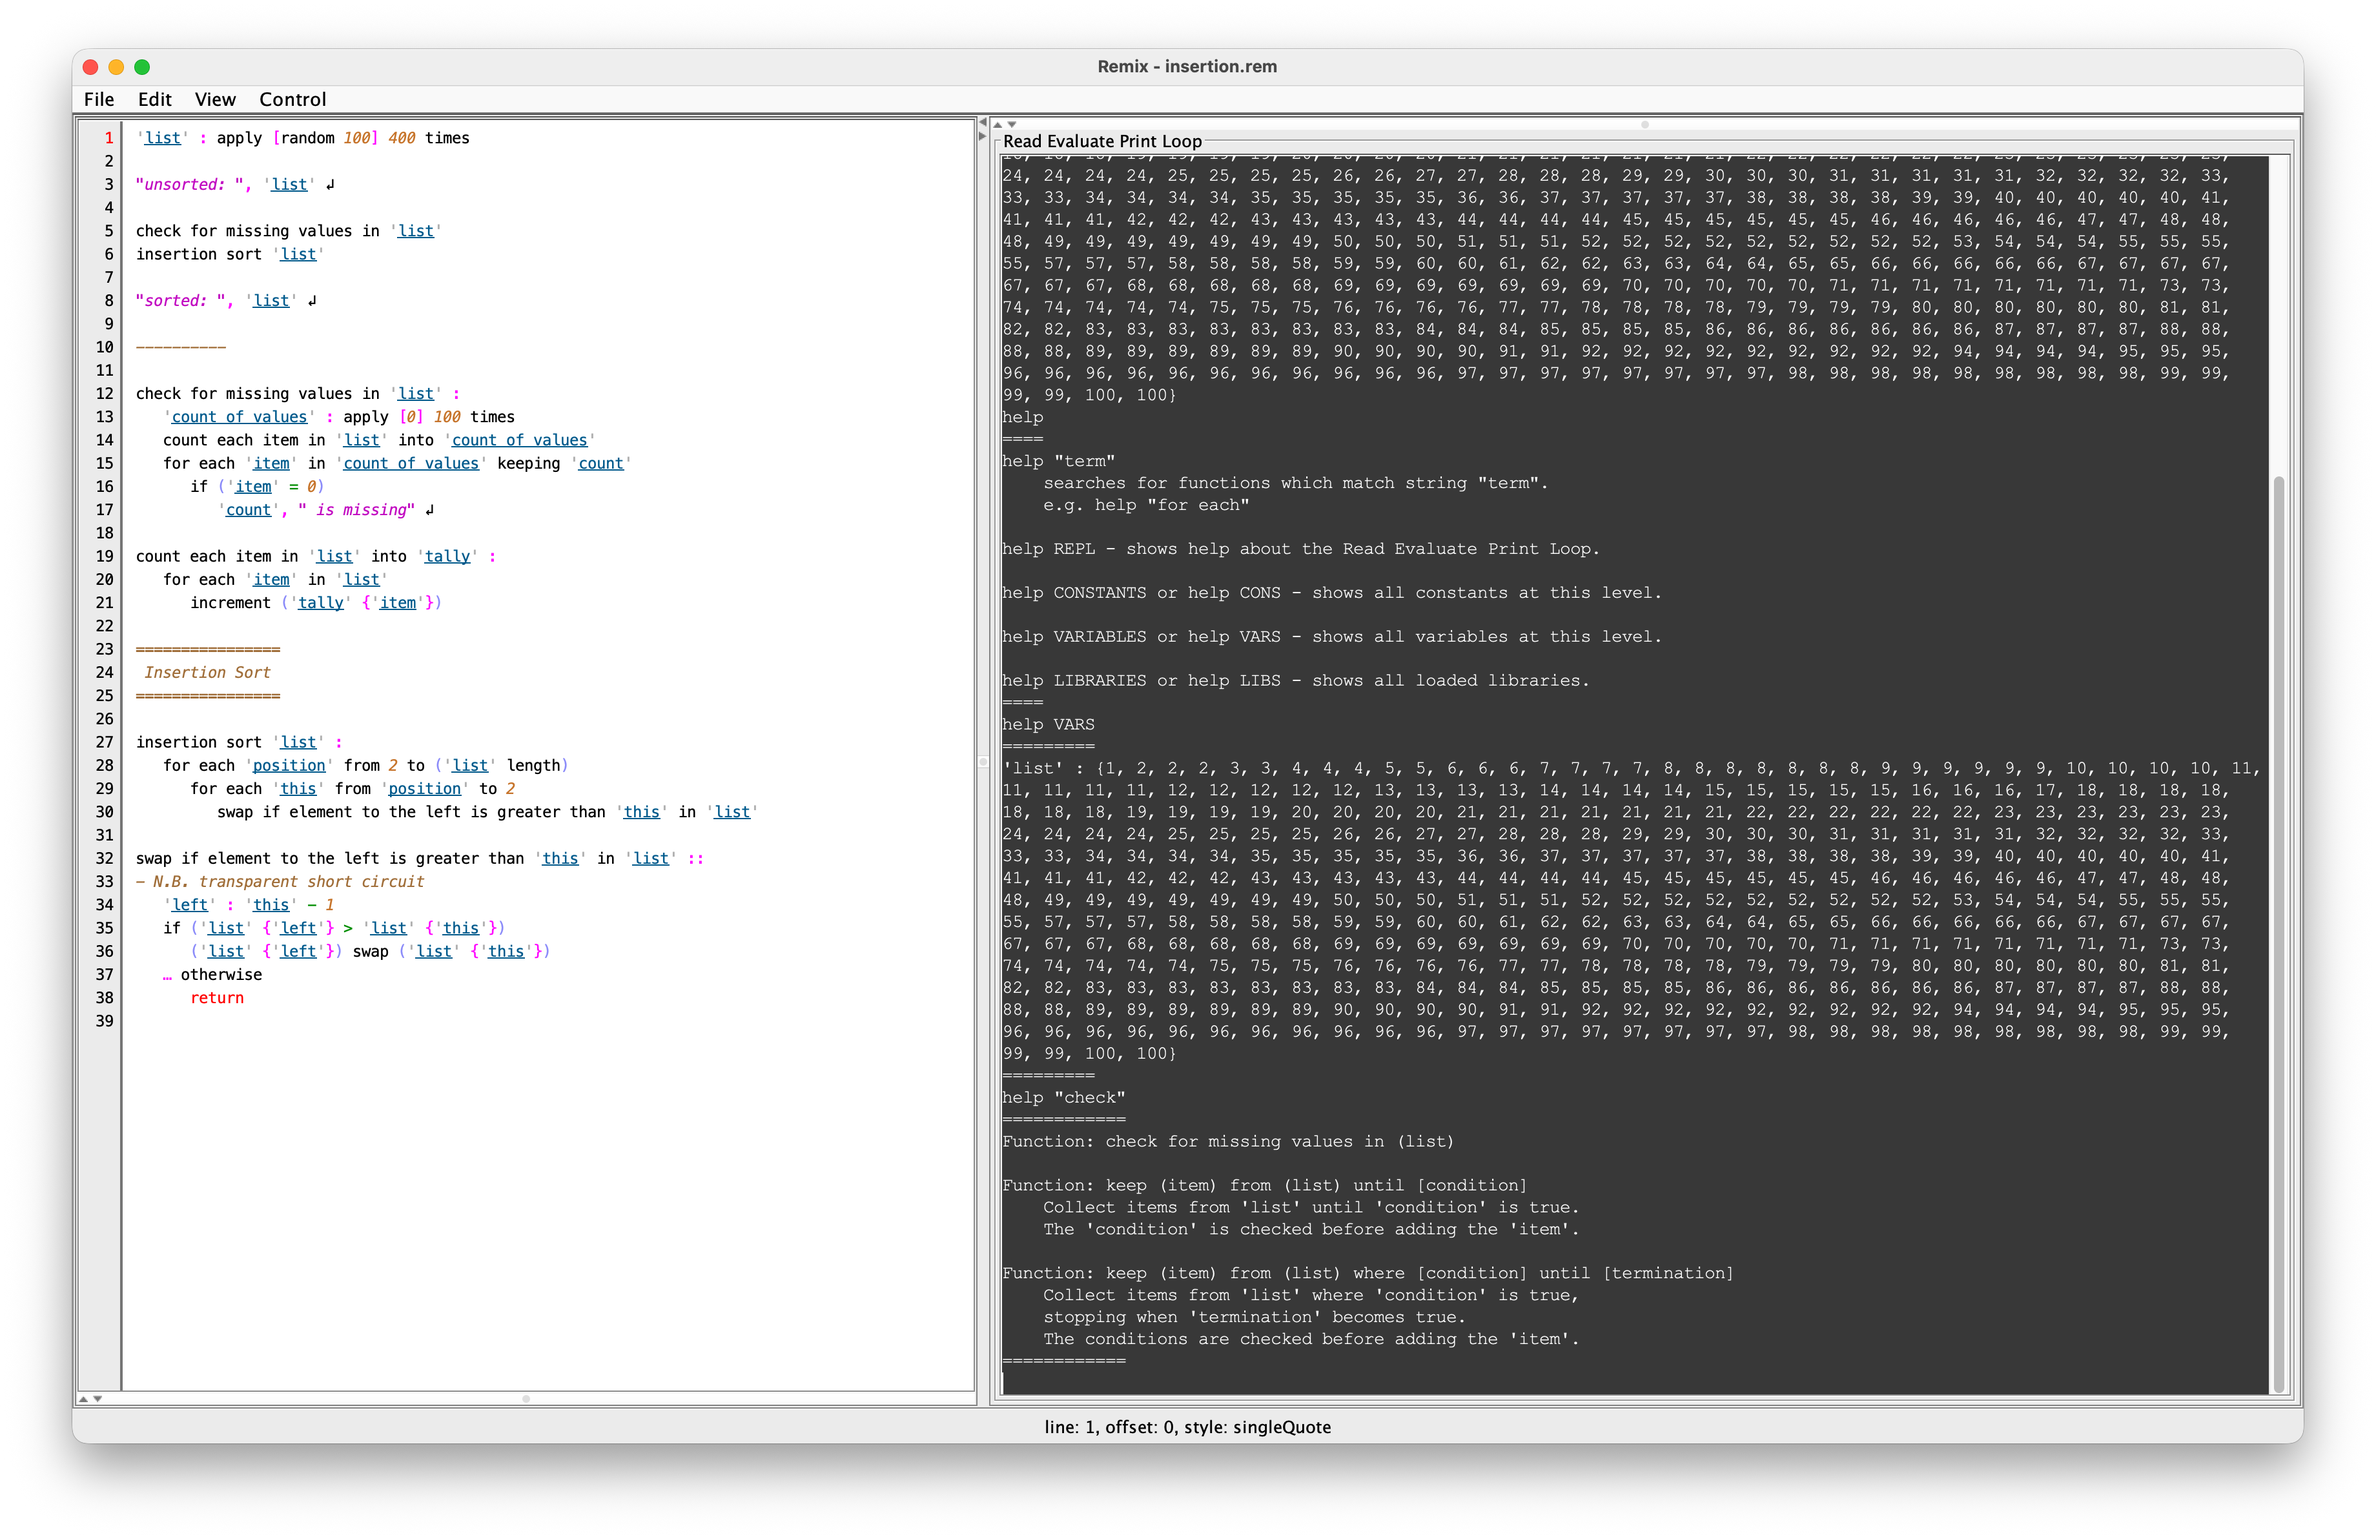
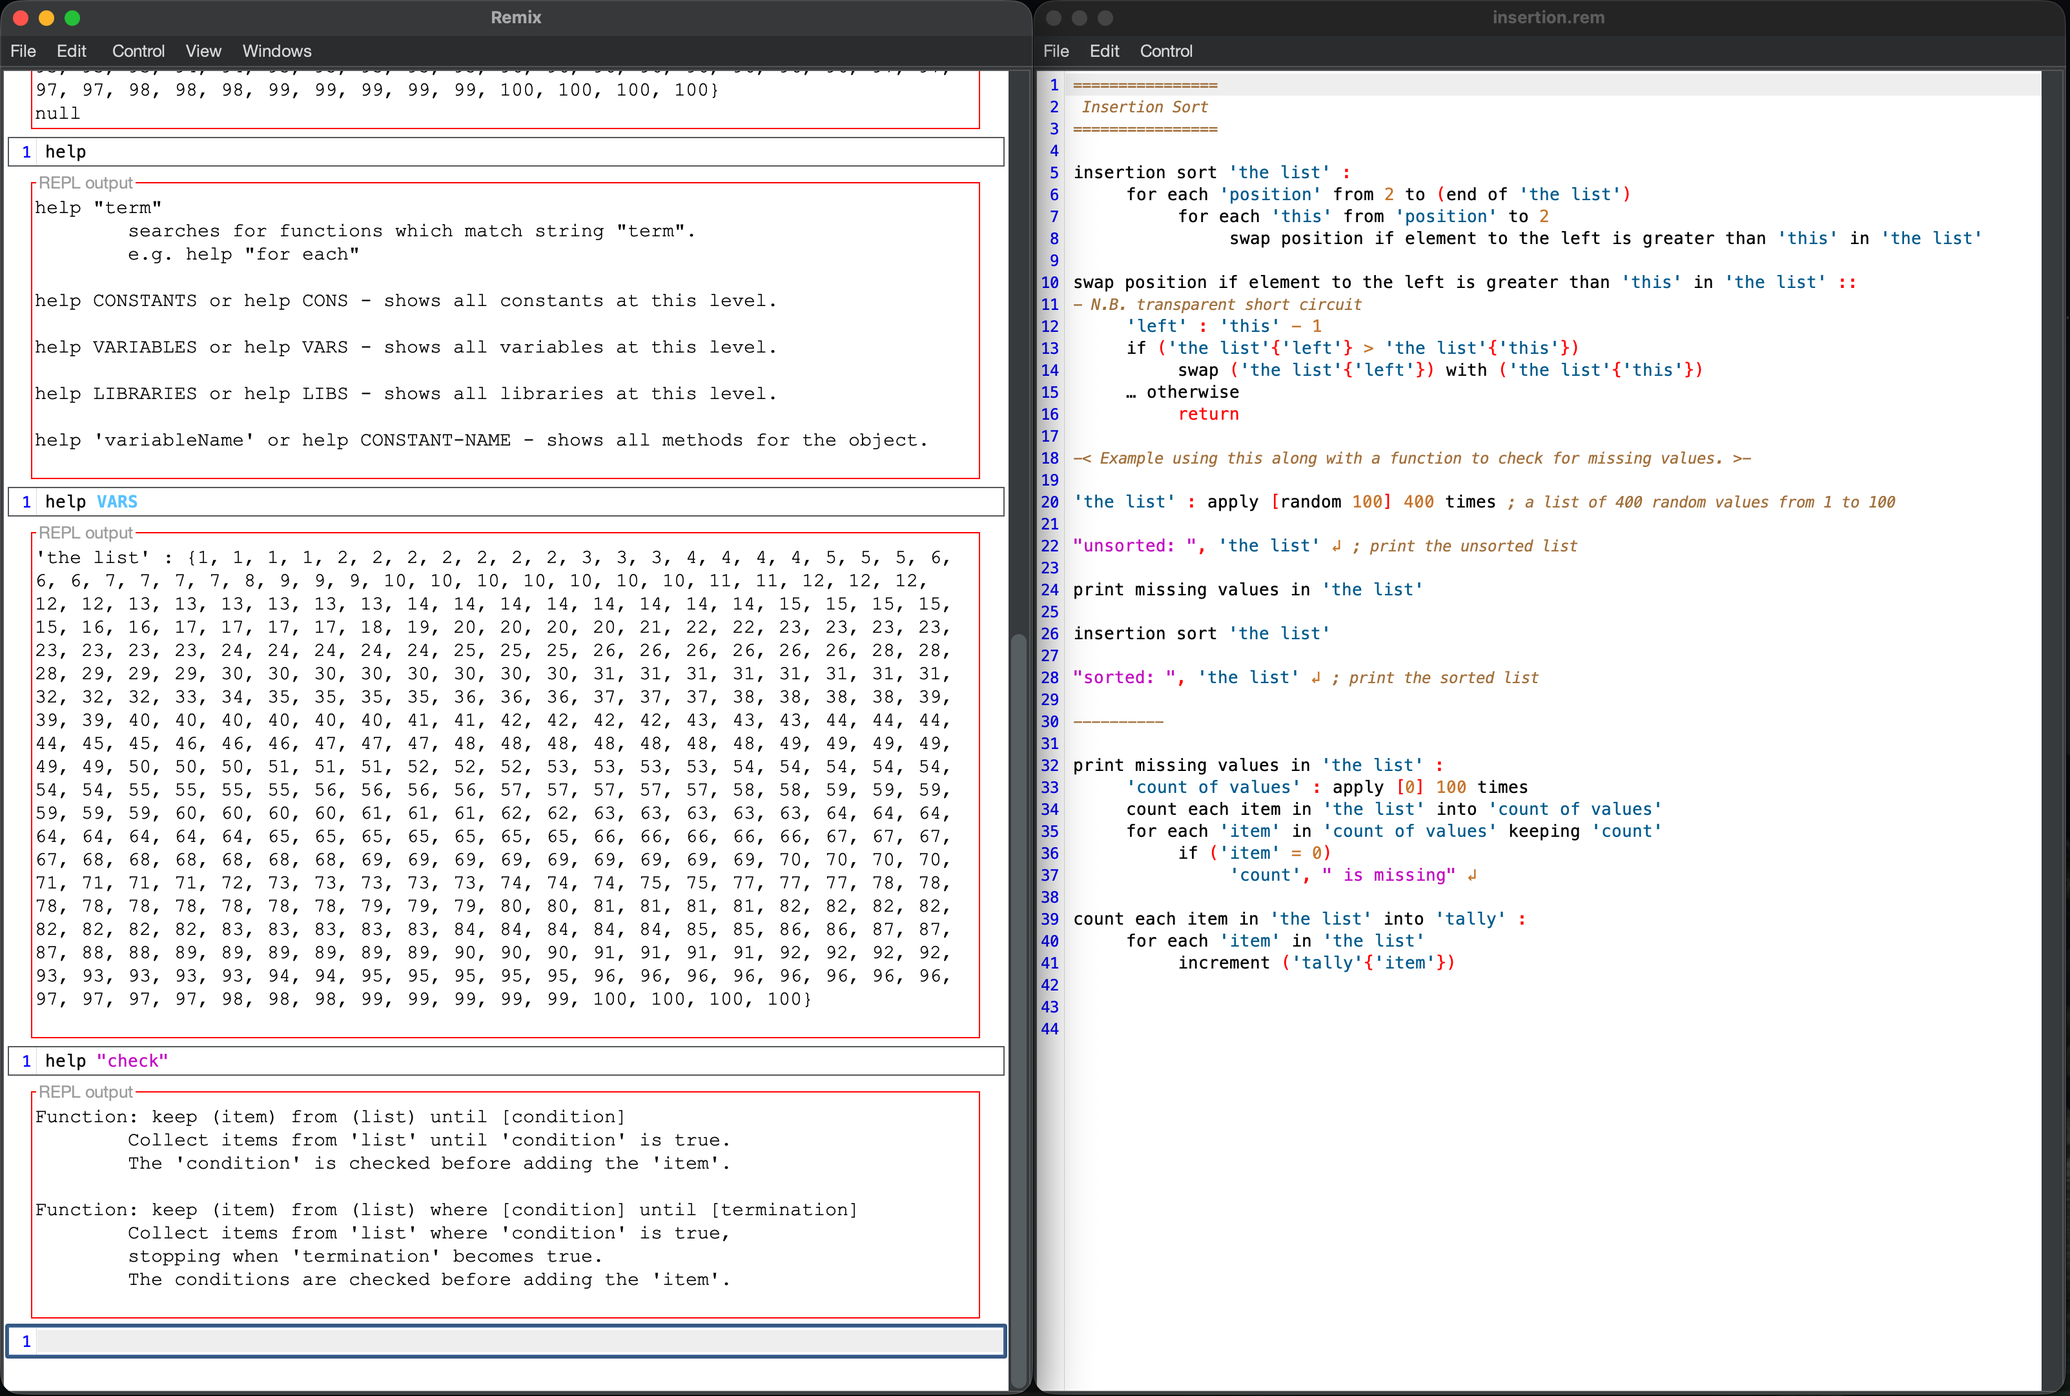
Updated image.

diff --git a/README.md b/README.md
@@ -1,5 +1,5 @@
 # Remix
-![Remix Insertion Sort](images/RemixExample.png)
+![Remix Insertion Sort](images/RemixInsertionSort.png)
 ## This is the current Remix - implemented in Java
 Remix is a flexible programming language based around the idea of mix-fix (as opposed to pre-fix or post-fix) 
 function names. With as many space-separated words and parameters as you want in a function name you can make these 
